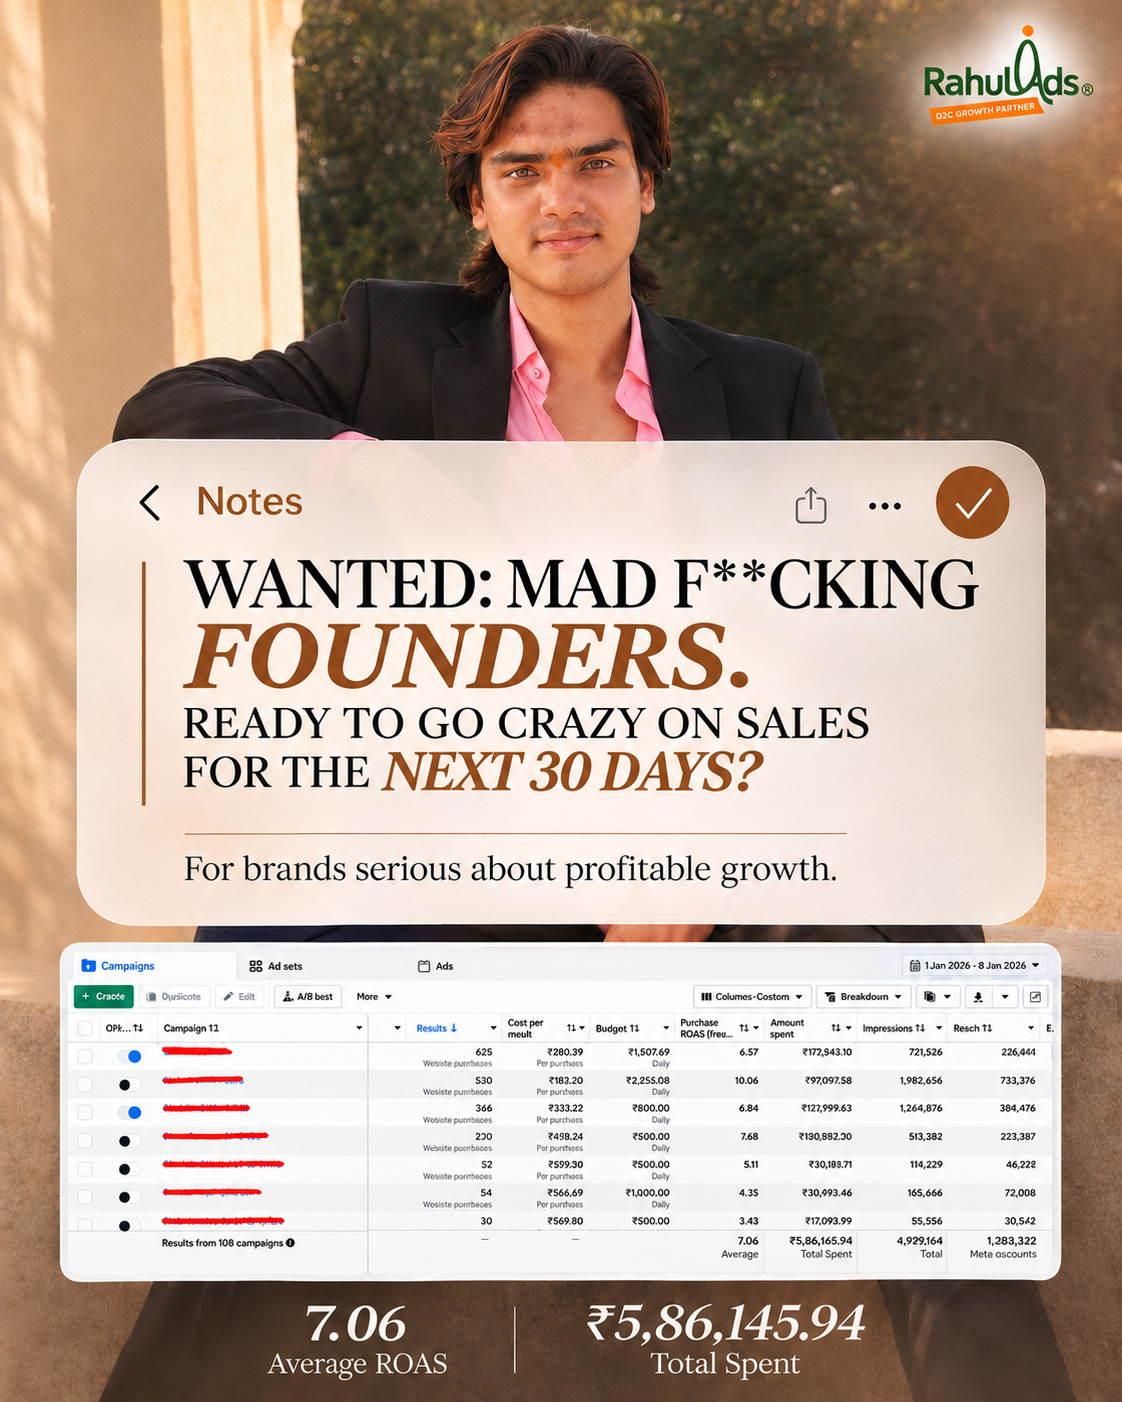
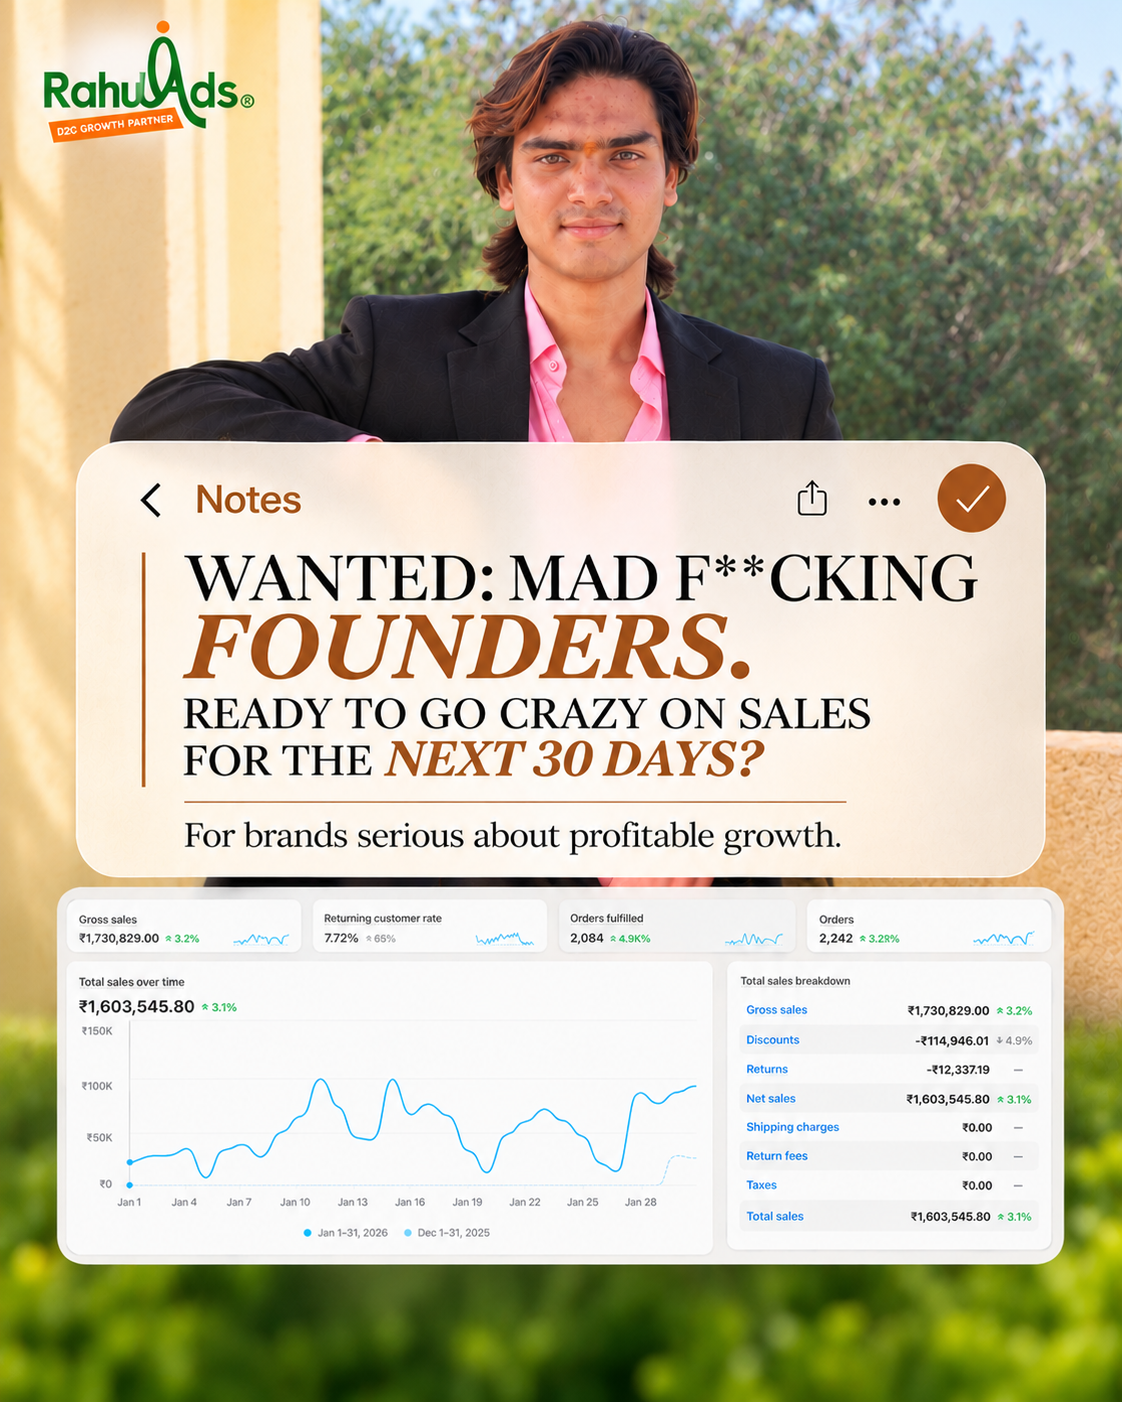
final

diff --git a/src/components/Hero.jsx b/src/components/Hero.jsx
@@ -21,7 +21,7 @@ const HOVER_CARDS = [
     icon: TrendingDown,
     iconClass: 'from-[#FF7A45] to-[#FF551A] shadow-orange-500/30',
     anim: 'animate-float-delayed',
-    pos: 'left-[-20px] top-[60%] sm:-right-4 sm:top-16 lg:right-2',
+    pos: 'left-[-20px] top-[55%] sm:-right-4 sm:top-16 lg:right-2',
   },
   {
     id: 'unit-economics',
@@ -30,7 +30,7 @@ const HOVER_CARDS = [
     icon: TrendingUp,
     iconClass: 'from-emerald-400 to-emerald-600 shadow-emerald-500/30',
     anim: 'animate-float',
-    pos: 'right-[-20px] bottom-[100px] sm:-left-4 sm:top-24 sm:bottom-auto lg:left-2',
+    pos: 'right-[-20px] bottom-[80px] sm:-left-4 sm:top-24 sm:bottom-auto lg:left-2',
   },
   {
     id: 'experimentation',
@@ -39,7 +39,7 @@ const HOVER_CARDS = [
     icon: Sparkles,
     iconClass: 'from-[#3B8BFF] to-[#0668E1] shadow-blue-500/30',
     anim: 'animate-float',
-    pos: 'left-[-20px] bottom-[35px] sm:-right-2 sm:bottom-12 lg:right-4',
+    pos: 'left-[-20px] bottom-[10px] sm:-right-2 sm:bottom-12 lg:right-4',
   },
 ];
 
